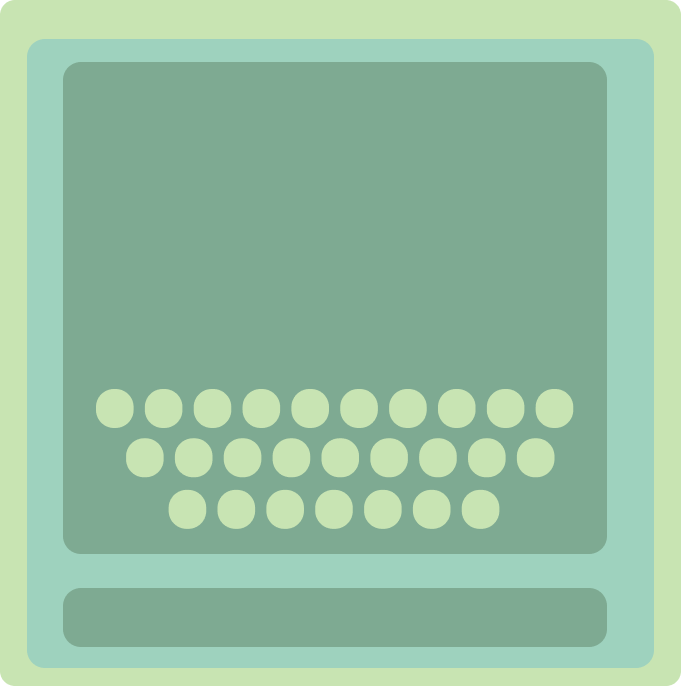
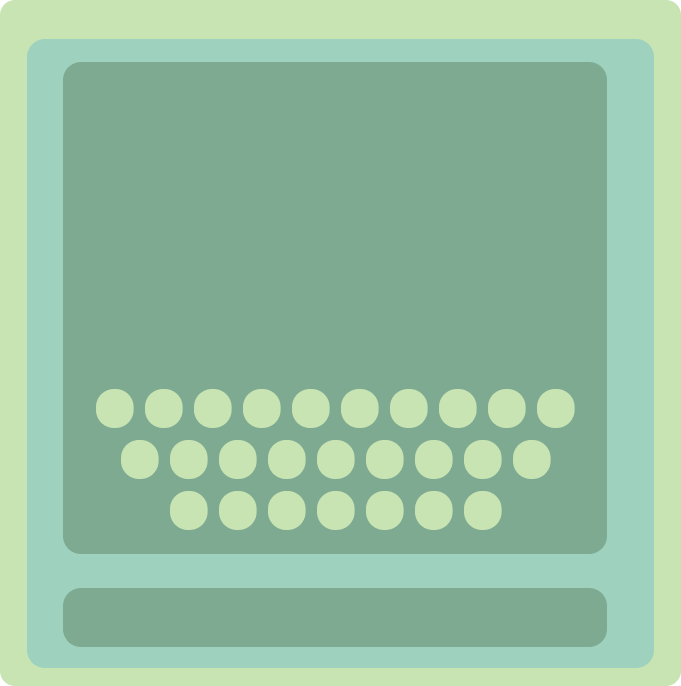
hangman buttons placement

diff --git a/app/components/learning_session.py b/app/components/learning_session.py
@@ -72,9 +72,9 @@ class LearningSession(tk.Toplevel):
         #
         # return chosen_entry[1], chosen_entry[0]
         #debug -------------------------
-        hangman_dict = self.hangman_dict
+        dict = self.hangman_dict
 
-        if len(hangman_dict) > 0:
+        if len(dict) > 0:
             return self.hangman_dict, "hangman"
         else:
             return None, None
@@ -303,22 +303,36 @@ class Hangman(tk.Frame):
         self.background_image = PhotoImage(file=
                                            "./components/graphical_components/games/hangman/hangman_bg.png")
         self.label_bg = PhotoImage(file="./components/graphical_components/games/hangman/canvas_bg.png")
+
         self.background = tk.Label(self, image=self.background_image)
         self.background.place(relwidth=1, relheight=1)
 
-        self.canvas = tk.Canvas(self, width=544, height=307, bg="#9ED2BE", highlightthickness=0)
-        self.canvas_bg = self.canvas.create_image(0, 0, anchor=tk.NW, image=self.label_bg)
-        self.canvas.place(x=63, y=62)
 
-        self.word_to_display = tk.Label(
-            self.canvas,
-            text=key,
-            font=('Inter', 60, 'bold'),
-            background="#7eaa92",
-            fg="#FFD9B7",
-            wraplength=600
-        )
 
-        self.canvas.create_window(272, 153, window=self.word_to_display, anchor="center")
+        self.create_letter_buttons()
 
         self.pack()
+    def create_letter_buttons(self):
+        self.letter_button_bg = tk.PhotoImage(
+            file="./components/graphical_components/games/hangman/letter_button.png")
+        y_pos = [394, 445, 495]
+        buttons_x = [103, 151, 202, 250, 300, 350, 398, 451, 495, 546,
+                     129, 177, 227, 277, 324, 374, 424, 472, 523,
+                     179, 227, 276, 325, 374, 423, 471]
+
+        letters = ['Q', 'W', 'E', 'R', 'T', 'Y', 'U', 'I', 'O', 'P', 'A', 'S', 'D', 'F', 'G', 'H', 'J', 'K', 'L', 'Z',
+                   'X', 'C', 'V', 'B', 'N', 'M']
+
+        button_index = 0
+        button_counts = [10, 9, 7]
+
+        for i in range(3):
+            for j in range(button_counts[i]):
+                button = tk.Button(self, bd=0, bg="#C8E4B3", font=('Inter', 12, 'bold'),
+                                   fg="#FFFFFF", text=letters[button_index])
+                button.place(x=buttons_x[button_index], y=y_pos[i])
+
+                if button_index < len(letters):
+                    button.configure(text=letters[button_index])
+                    button_index += 1
+

diff --git a/app/main.py b/app/main.py
@@ -226,7 +226,7 @@ class RightFrame(tk.Frame):
         self.timer_state_long_break_bg = PhotoImage(file="./components/graphical_components/pomodoro/long_break.png")
 
         self.status_label = tk.Label(self, image=self.timer_state_idle_bg, fg="#FFD9B7", background="#c8e4b2", bd=0)
-        self.status_label.place(x=50, y=333)
+        self.status_label.place(x=44, y=333)
 
         # Menu section
         self.main_panel_button_enabled = False
